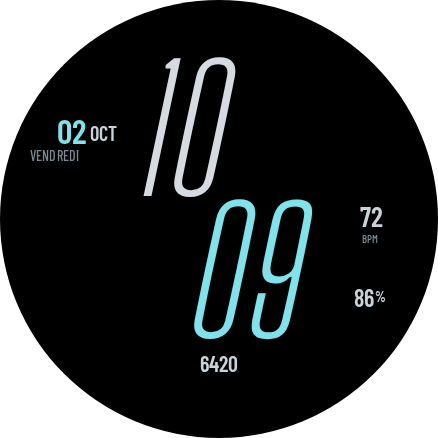
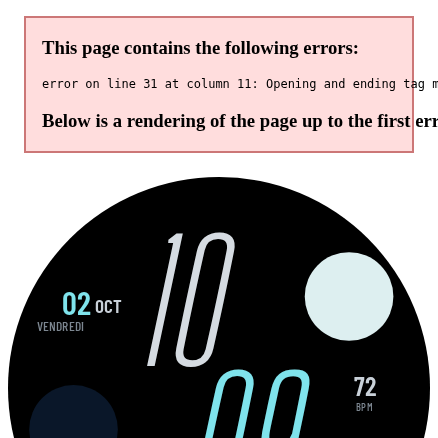
Prisme : fond uni sous les dômes (plus de croissant de la bande voisine)
Claude-Session: https://claude.ai/code/session_01MEdY8gaQcWfzgRykkGgopN

diff --git a/prisme/tools/generate.py b/prisme/tools/generate.py
@@ -213,22 +213,12 @@ def layer_seconds():
     draw_close("normal")
 
 
-def dome_background(cx, cy, r):
-    """Fond agrandi sous la loupe : bandes x1,2 autour du centre du dôme, découpées en disque."""
-    group_open(f"dome_bg_{cx}", show="normal")
-    cid = O.gid("lens")
-    O.defs.append(f'<clipPath id="{cid}"><circle cx="{cx}" cy="{cy}" r="{r}" /></clipPath>')
-    O.s(f'<g clip-path="url(#{cid})">', "normal")
-    O.mode_stack.append(("none", None))
-    draw_open(x=cx - r, y=cy - r, w=2 * r, h=2 * r, render_mode="MASK")
-    circle(cx, cy, r, fill="#FFFFFF")
-    draw_close()
-    O.mode_stack.pop()
-    group_open(f"dome_mag_{cx}", scale=DOME_K, pivot=(cx, cy))
-    bands("both", f"bands_mag_{cx}")
-    group_close()
-    O.s("</g>", "normal")
-    group_close("normal")
+def dome_background(cx, cy, r, color):
+    """Fond du dôme : disque uni de la couleur de la bande où il se trouve. (Les bandes
+    agrandies laissaient un croissant de la bande voisine au bord du dôme haut.)"""
+    box_draw(cx - r, cy - r, 2 * r, 2 * r)
+    circle(cx, cy, r, fill=color)
+    draw_close("normal")
 
 
 
@@ -281,18 +271,19 @@ def slot(sid, name, x, y, w, h, types, builtin, render, oval=False, scale=None):
 
 
 def patch(name, x, y, w, h, oval):
-    """Fond du cadran (bandes + ombrage) découpé à la forme de l'emplacement : cache la
-    donnée intégrée dessous. Dans un emplacement agrandi, le fond est agrandi aussi (loupe)."""
+    """Fond du cadran découpé à la forme de l'emplacement : cache la donnée intégrée dessous.
+    oval : couleur unie du dôme ; sinon bandes + ombrage découpés au rectangle."""
+    if oval:
+        box_draw(x, y, w, h)
+        circle(x + w / 2, y + h / 2, DOME_R / DOME_K, fill=oval)   # x1,2 par la loupe = rayon du dôme
+        draw_close()
+        return
     group_open(name, x, y, w, h)
     draw_open(x=x, y=y, w=w, h=h, render_mode="MASK")
-    if oval:
-        circle(x + w / 2, y + h / 2, w / 2, fill="#FFFFFF")
-    else:
-        rect(x, y, w, h, "#FFFFFF")
+    rect(x, y, w, h, "#FFFFFF")
     draw_close()
     bands("both", f"{name}_bands")
-    if not oval:
-        image(0, 0, W, W, "bands_shade")
+    image(0, 0, W, W, "bands_shade")
     group_close()
 
 
@@ -363,8 +354,9 @@ def dome_slot(sid, name, center, gr, ink, soft, track, color, builtin):
     O.comment(f"Dôme {name} : ombre, fond agrandi, emplacement agrandi x{DOME_K}, verre")
     image(cx - DOME_R - 14 + 3, cy - DOME_R - 14 + 5, 2 * DOME_R + 28, 2 * DOME_R + 28, "dome_shadow",
           show="normal")
-    dome_background(cx, cy, DOME_R)
-    slot(sid, name, x, y, s, s, GAUGE_TYPES, builtin, render, oval=True, scale=DOME_K)
+    bg = BAND[0] if sid == 3 else BAND[3]   # bande sous le dôme (bas gauche : 0, haut droite : 3)
+    dome_background(cx, cy, DOME_R, bg)
+    slot(sid, name, x, y, s, s, GAUGE_TYPES, builtin, render, oval=bg, scale=DOME_K)
     image(cx - DOME_R - 2, cy - DOME_R - 2, 2 * DOME_R + 4, 2 * DOME_R + 4, "dome_glass", show="normal")
 
 
